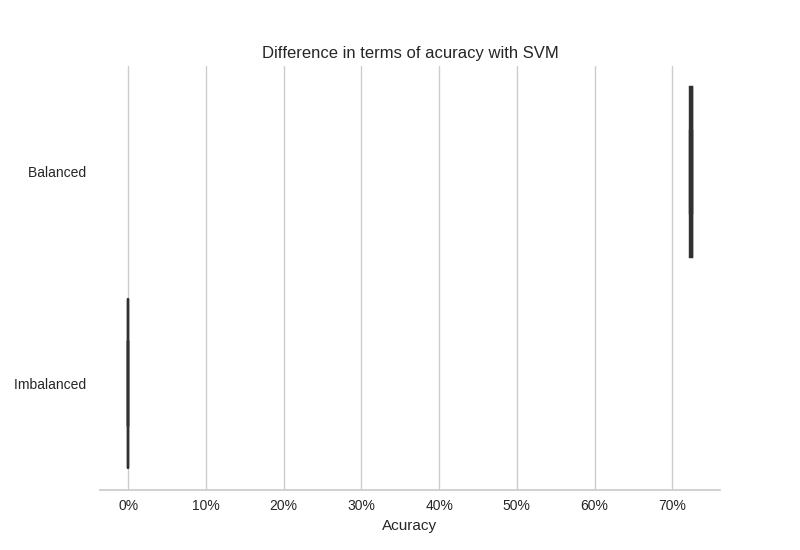
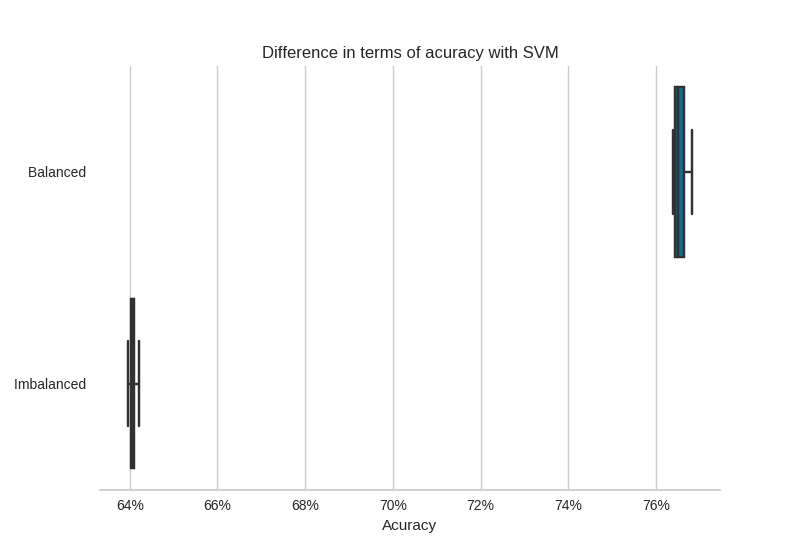
resultado svm desbalanceado enn

diff --git a/dissertacao/5_2_selecao_modelo.py b/dissertacao/5_2_selecao_modelo.py
@@ -86,8 +86,8 @@ for trainamento_index, teste_index in split.split(X_completo, Y_completo):
 # balanceador = AllKNN(sampling_strategy=classes_balancear)
 # balanceador = NeighbourhoodCleaningRule(sampling_strategy=classes_balancear)
 # balanceador = RandomUnderSampler()
-# balanceador = SMOTEENN()
-balanceador = SMOTE(n_jobs=n_jobs)
+balanceador = SMOTEENN()
+# balanceador = SMOTE(n_jobs=n_jobs)
 print(balanceador)
 X_treino, Y_treino = balanceador.fit_resample(
     conjunto_treinamento.drop('carcass_fatness_degree', axis=1),
@@ -97,7 +97,7 @@ Y_treino = pd.DataFrame(data=Y_treino, columns=['carcass_fatness_degree'])
 
 X_treino.to_csv('../input/DadosCompletoTransformadoMLBalanceadoX.csv', encoding='utf-8', sep='\t')
 Y_treino.to_csv('../input/DadosCompletoTransformadoMLBalanceadoY.csv', encoding='utf-8', sep='\t')
-# exit()
+exit()
 X_treino = pd.read_csv('../input/DadosCompletoTransformadoMLBalanceadoX.csv', encoding='utf-8', delimiter='\t')
 X_treino.drop(X_treino.columns[0], axis=1, inplace=True)
 Y_treino = pd.read_csv('../input/DadosCompletoTransformadoMLBalanceadoY.csv', encoding='utf-8', delimiter='\t')
